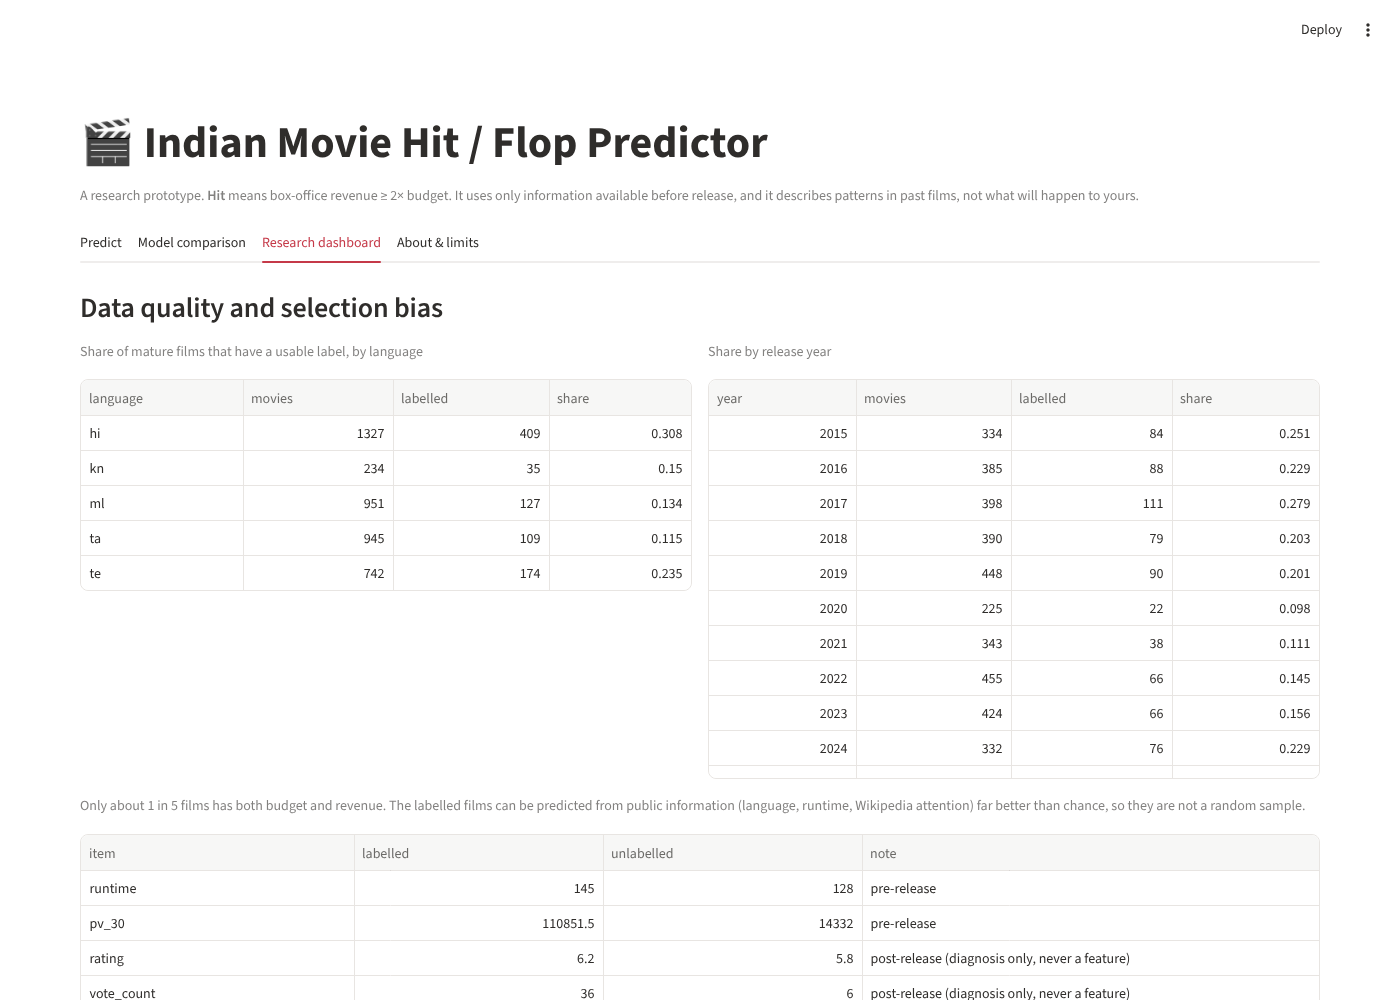
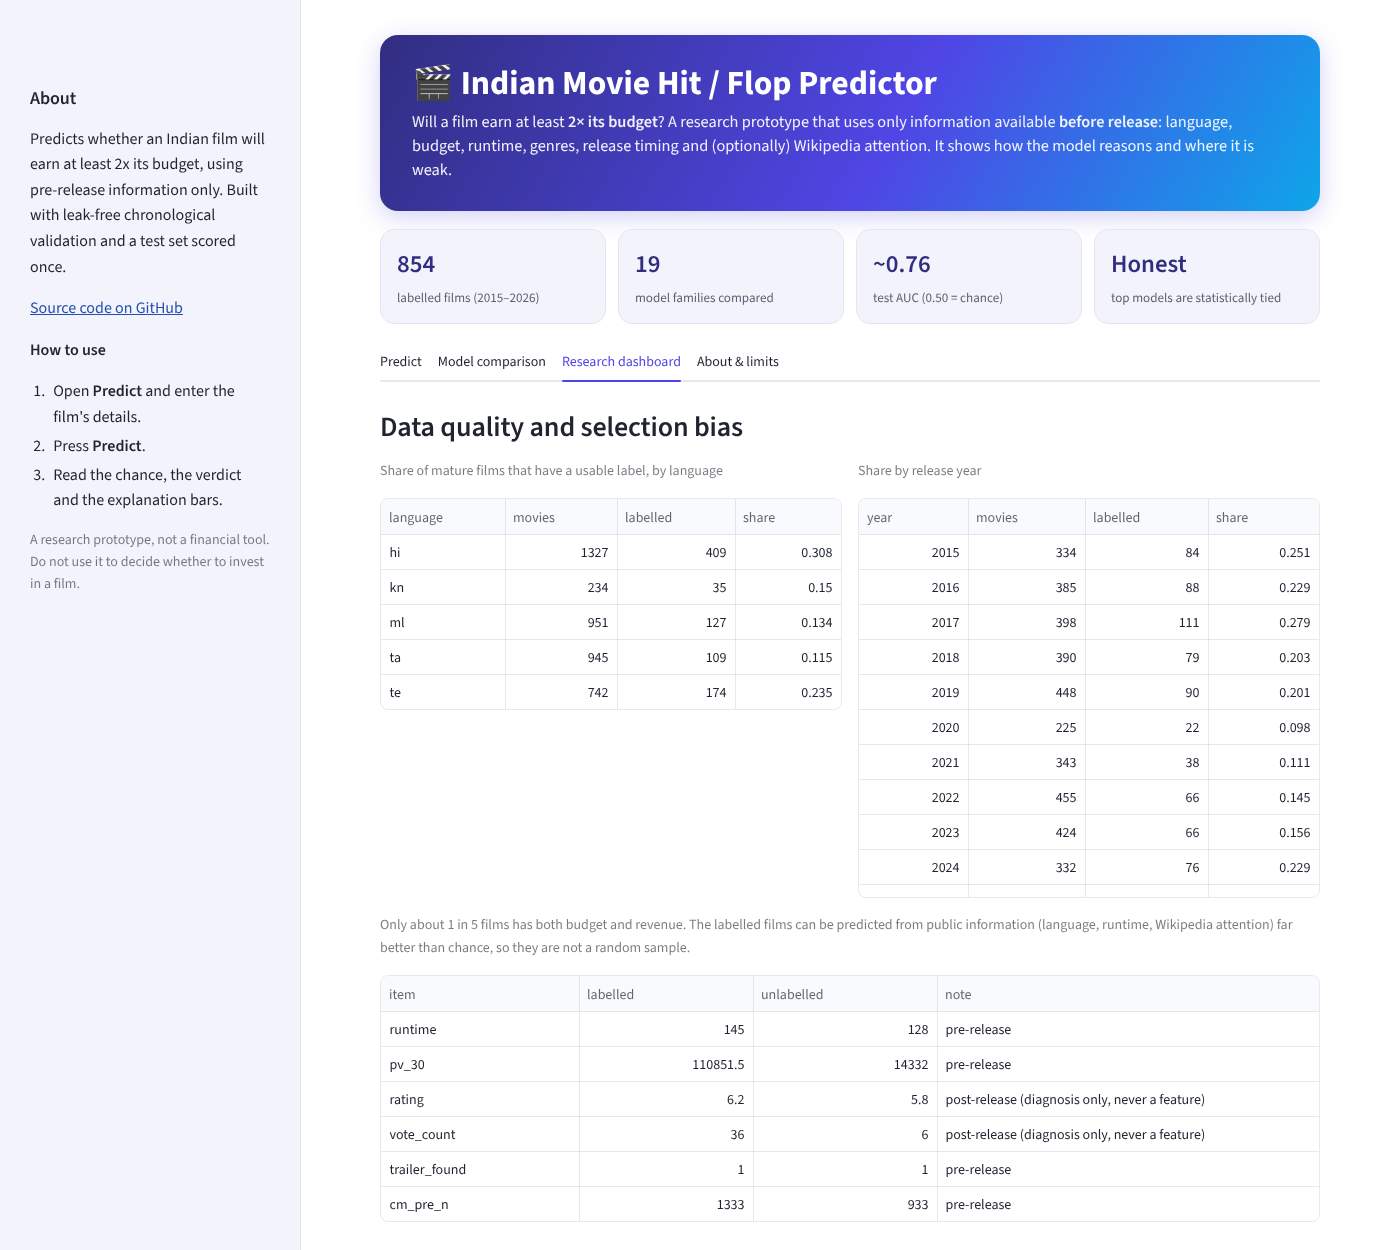
Polish app front end, add theme and screenshots

diff --git a/app/streamlit_app.py b/app/streamlit_app.py
@@ -38,9 +38,45 @@ def show_table(rel, caption=None, fmt=3):
 
 
 # ------------------------------------------------------------------ header
-st.title("🎬 Indian Movie Hit / Flop Predictor")
-st.caption("A research prototype. **Hit** means box-office revenue ≥ 2× budget. It uses only information available before release, "
-           "and it describes patterns in past films, not what will happen to yours.")
+REPO_URL = "https://github.com/tonymadhuri2088-cmd/movie-hit-flop"
+st.markdown("""
+<style>
+.block-container {padding-top: 2.2rem; max-width: 1200px;}
+.hero {background: linear-gradient(120deg, #312e81 0%, #4f46e5 55%, #0ea5e9 100%); color: #fff; border-radius: 18px;
+       padding: 28px 32px; margin-bottom: 18px; box-shadow: 0 6px 24px rgba(79,70,229,.25);}
+.hero h1 {margin: 0 0 6px 0; font-size: 2.1rem; color: #fff; padding: 0;}
+.hero p {margin: 0; font-size: 1.02rem; opacity: .93; line-height: 1.5;}
+.kpis {display: grid; grid-template-columns: repeat(4, 1fr); gap: 12px; margin-bottom: 18px;}
+.kpi {background: #f3f4fb; border: 1px solid #e3e5f5; border-radius: 14px; padding: 14px 16px;}
+.kpi b {display: block; font-size: 1.55rem; color: #312e81;}
+.kpi span {font-size: .82rem; color: #5b6075;}
+.verdict {border-radius: 14px; padding: 16px 20px; margin: 8px 0 14px 0; font-size: 1.05rem;}
+.verdict.hit {background: #e8f7ee; border: 1px solid #9bd6b0; color: #14532d;}
+.verdict.flop {background: #fdecec; border: 1px solid #f1a9a9; color: #7f1d1d;}
+.verdict b {font-size: 1.25rem;}
+.footer {margin-top: 36px; padding-top: 14px; border-top: 1px solid #e3e5f5; color: #6b7086; font-size: .85rem;}
+button[data-baseweb="tab"] {font-weight: 600;}
+@media (max-width: 800px) {.kpis {grid-template-columns: repeat(2, 1fr);} .hero h1 {font-size: 1.6rem;}}
+</style>
+<div class="hero">
+  <h1>🎬 Indian Movie Hit / Flop Predictor</h1>
+  <p>Will a film earn at least <b>2&times; its budget</b>? A research prototype that uses only information available <b>before release</b>:
+  language, budget, runtime, genres, release timing and (optionally) Wikipedia attention. It shows how the model reasons and where it is weak.</p>
+</div>
+<div class="kpis">
+  <div class="kpi"><b>854</b><span>labelled films (2015&ndash;2026)</span></div>
+  <div class="kpi"><b>19</b><span>model families compared</span></div>
+  <div class="kpi"><b>~0.76</b><span>test AUC (0.50 = chance)</span></div>
+  <div class="kpi"><b>Honest</b><span>top models are statistically tied</span></div>
+</div>
+""", unsafe_allow_html=True)
+with st.sidebar:
+    st.markdown("### About")
+    st.write("Predicts whether an Indian film will earn at least 2x its budget, using pre-release information only. "
+             "Built with leak-free chronological validation and a test set scored once.")
+    st.markdown(f"[Source code on GitHub]({REPO_URL})")
+    st.markdown("**How to use**\n1. Open **Predict** and enter the film's details.\n2. Press **Predict**.\n3. Read the chance, the verdict and the explanation bars.")
+    st.caption("A research prototype, not a financial tool. Do not use it to decide whether to invest in a film.")
 tab_pred, tab_cmp, tab_dash, tab_about = st.tabs(["Predict", "Model comparison", "Research dashboard", "About & limits"])
 
 # ------------------------------------------------------------------ predict
@@ -78,7 +114,9 @@ with tab_pred:
                 p = out["probability"]
                 st.metric("Model-estimated chance of a Hit", f"{p:.0%}")
                 st.progress(min(max(p, 0.0), 1.0))
-                st.markdown(f"**Verdict at the model's decision threshold ({a['threshold']:.2f}): {out['label']}**")
+                _cls = "hit" if str(out["label"]).lower().startswith("hit") else "flop"
+                _icon = "✅" if _cls == "hit" else "⚠"
+                st.markdown(f"<div class='verdict {_cls}'>{_icon} Verdict at the model's decision threshold ({a['threshold']:.2f}): <b>{out['label']}</b></div>", unsafe_allow_html=True)
                 warn = []
                 if lang == "hi":
                     warn.append("Hindi films are where this model is weakest (validation AUC about 0.56, barely above chance).")
@@ -182,3 +220,7 @@ with tab_about:
     for m, label in (("basic", "Basic"), ("buzz", "Buzz-enhanced")):
         a = art[m]
         st.markdown(f"- **{label}:** {a['model']} on feature set {a['feature_set']}, trained on {a['trained_on']} films released {a['date_range'][0]} to {a['date_range'][1]}.")
+
+st.markdown(f"<div class='footer'>Indian Movie Hit / Flop Predictor &middot; research prototype &middot; "
+            f"<a href='{REPO_URL}' target='_blank'>source code</a> &middot; predictions describe patterns in past films, not what will happen to yours.</div>",
+            unsafe_allow_html=True)

diff --git a/README.md b/README.md
@@ -57,9 +57,13 @@ What this means:
 More detail and caveats are in [`docs/WHAT_IS_DONE.md`](docs/WHAT_IS_DONE.md). Ideas for next steps are in [`docs/IMPROVEMENTS.md`](docs/IMPROVEMENTS.md).
 
 ## App
+An interactive Streamlit app with a clean front end: a hero banner with key numbers, a **Predict** tab (film details in, chance of a Hit, a colour-coded verdict, per-input SHAP bars and honest warnings), a **Model comparison** tab, a **Research dashboard** (data quality, robustness, experiment log) and an **About & limits** tab.
+
 ![Predict page with SHAP explanation](docs/screenshots/app_predict.png)
 
 More screenshots: [model comparison](docs/screenshots/app_model_comparison.png), [research dashboard](docs/screenshots/app_dashboard.png).
+
+Run it locally with `streamlit run app/streamlit_app.py`, or with Docker (below).
 
 ## Quick start
 ```bash
